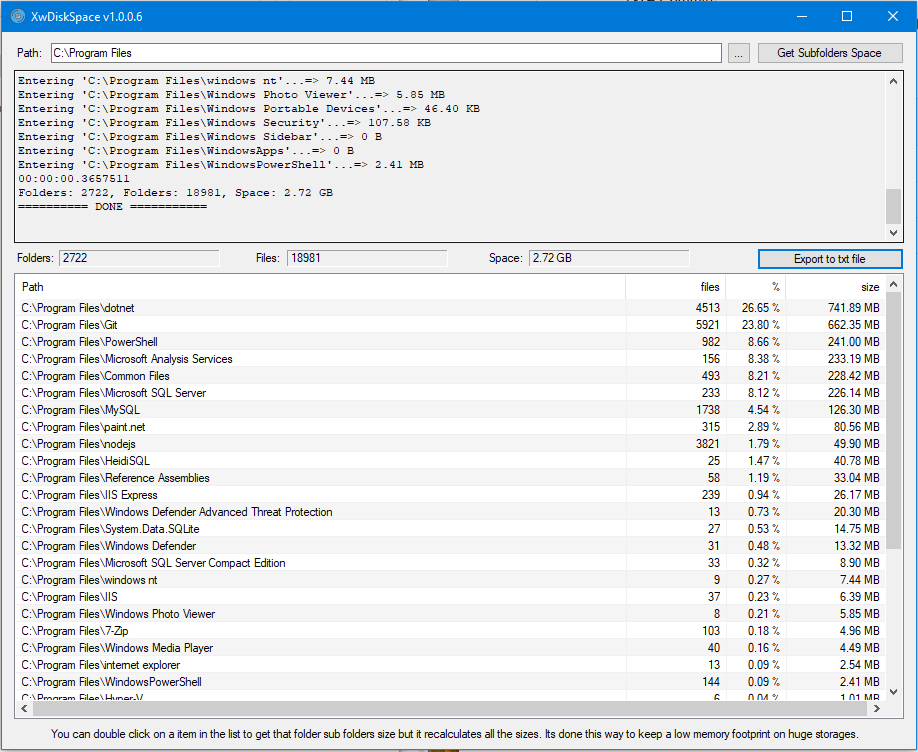
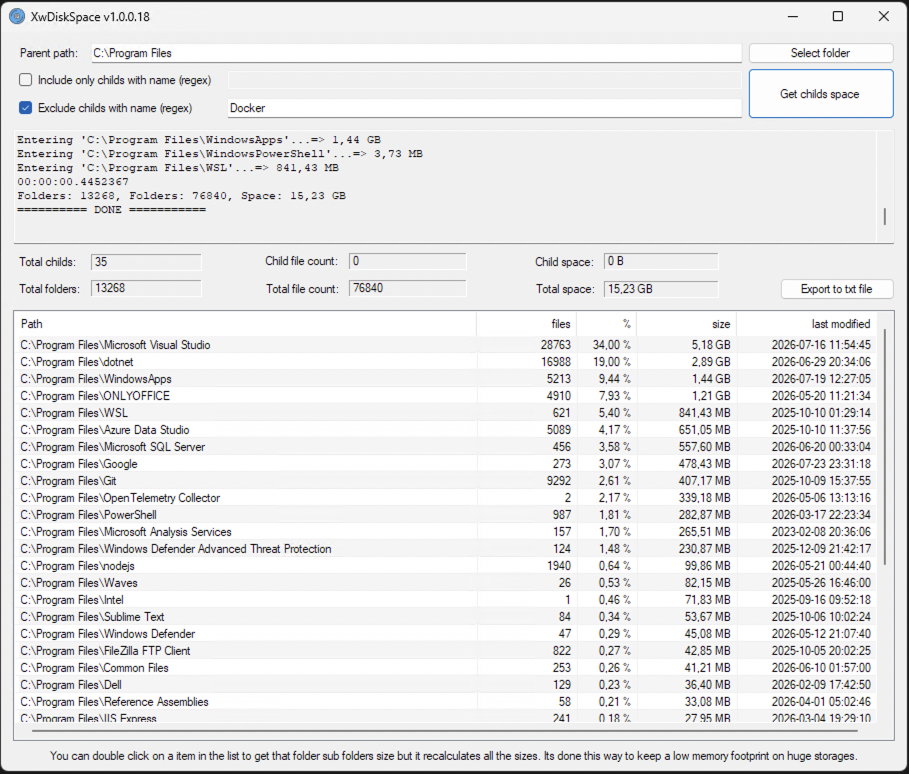
image change

Changed region(s): [[0.0, 0.0, 1.0, 1.0], [0.2772, 0.3059, 0.5237, 0.3976]]

diff --git a/XwDiskSpace/Properties/AssemblyInfo.cs b/XwDiskSpace/Properties/AssemblyInfo.cs
@@ -32,5 +32,5 @@ using System.Runtime.InteropServices;
 // You can specify all the values or you can default the Build and Revision Numbers 
 // by using the '*' as shown below:
 // [assembly: AssemblyVersion("1.0.*")]
-[assembly: AssemblyVersion("1.0.0.17")]
-[assembly: AssemblyFileVersion("1.0.0.17")]
+[assembly: AssemblyVersion("1.0.0.18")]
+[assembly: AssemblyFileVersion("1.0.0.18")]

diff --git a/XwDiskSpace/Main.cs b/XwDiskSpace/Main.cs
@@ -243,9 +243,6 @@ namespace XwDiskSpace
                     checkExclude.Checked = false;
                 }
 
-                if (!textExclude.Text.StartsWith("(?"))
-                    textExclude.Text = "(?i)" + textExclude.Text;
-
                 try
                 {
                     regexExclude = new Regex(textExclude.Text
